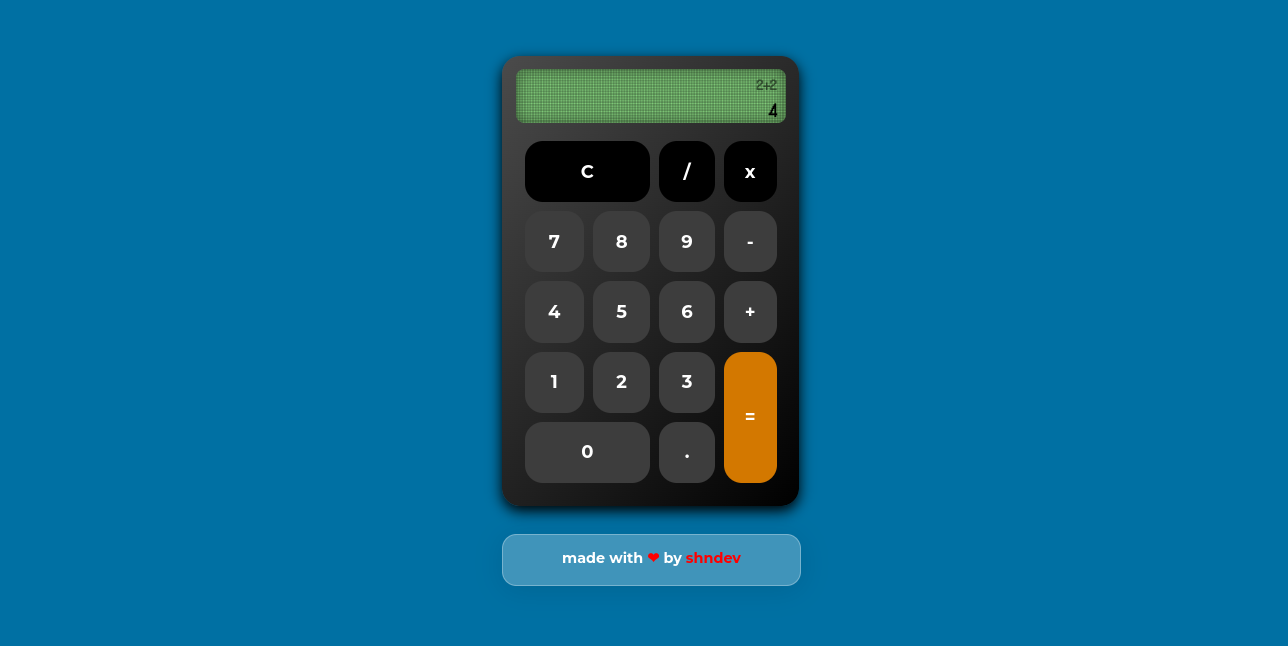
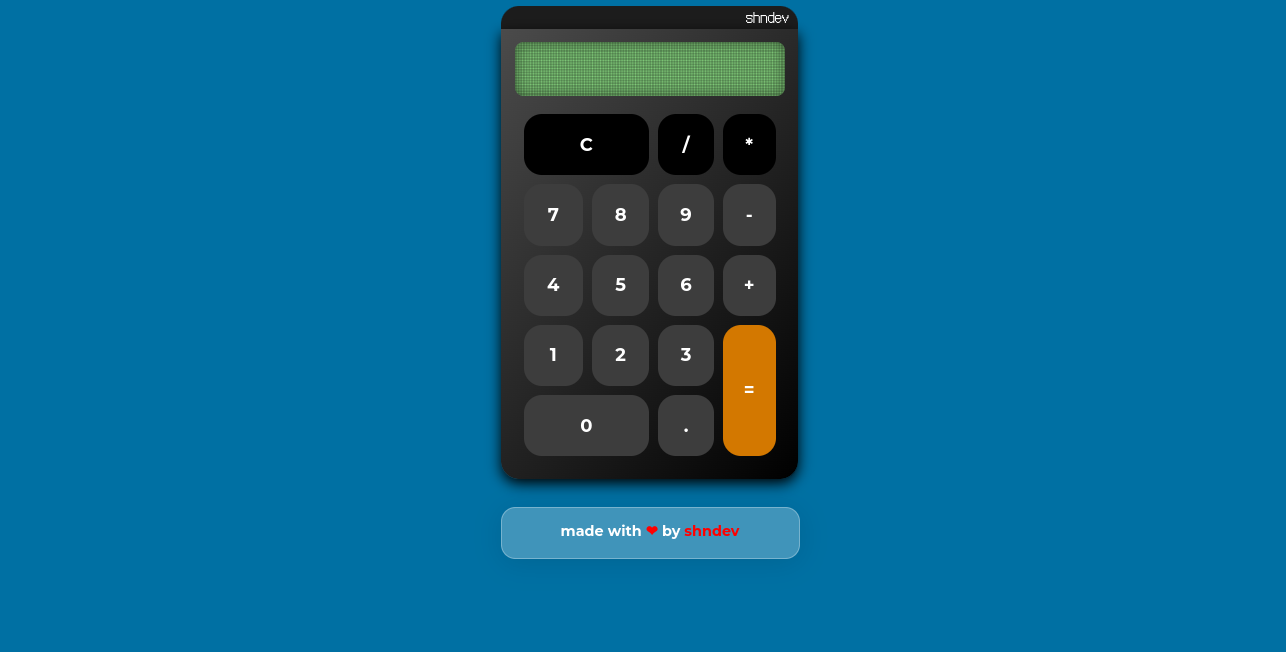
Add files via upload

Changed region(s): [[0.3733, 0.3715, 0.6532, 0.9288], [0.3733, 0.0, 0.6532, 0.3406], [0.4044, 0.4334, 0.4355, 0.4954]]

diff --git a/style.css b/style.css
@@ -17,6 +17,9 @@ body{
 
 *{
     transition: 0.2s ease;
+    -webkit-user-select: none; /* Safari */
+    -ms-user-select: none; /* IE 10 and IE 11 */
+    user-select: none; /* Standard syntax */
 }
 
 .all{
@@ -28,13 +31,24 @@ body{
 .calculator{
     width: 300px;
     height: 470px;
-    margin-top: 20%;
     background: rgb(0,0,0);
     background: linear-gradient(-50deg, rgba(0,0,0,1) 0%, rgba(75,75,75,1) 100%);
     color: white;
     padding: 15px;
-    border-radius: 20px;
+    border-radius: 0 0 20px 20px;
     box-shadow: rgba(0, 0, 0, 1) 0px 5px 15px;
+}
+
+.calculatortop{
+    background: #1c1c1c;
+    color: white;
+    font-family: "DotGothic16";
+    width: 320px;
+    height: 25px;
+    text-align: right;
+    border-radius: 20px 20px 0 0;
+    font-size: 16px;
+    padding-right: 10px;
 }
 
 .screen{
@@ -72,9 +86,7 @@ body{
     padding-right: 10px;
     font-weight: bold;
     font-size: 18px;
-    -webkit-user-select: none; /* Safari */
-    -ms-user-select: none; /* IE 10 and IE 11 */
-    user-select: none; /* Standard syntax */
+    
 }
 
 .screenoperation{
@@ -84,16 +96,12 @@ body{
     padding-right: 10px;
     font-weight: bold;
     font-size: 15px;
-    -webkit-user-select: none; /* Safari */
-    -ms-user-select: none; /* IE 10 and IE 11 */
-    user-select: none; /* Standard syntax */
+    
 }
 
 .keys{
     text-align: center;
-    -webkit-user-select: none; /* Safari */
-    -ms-user-select: none; /* IE 10 and IE 11 */
-    user-select: none; /* Standard syntax */
+    
 }
 
 .key{

diff --git a/script.js b/script.js
@@ -150,7 +150,7 @@ function key(key){
                 number2 = getSecondNumber('/',numbers)
                 op = parseInt(number1)/parseInt(number2);
                 document.getElementById("screenoutput").innerHTML = op;
-                document.getElementById("screenoperation").innerHTML = number1 + "+" + number2;
+                document.getElementById("screenoperation").innerHTML = number1 + "/" + number2;
 
             }
         }

diff --git a/index.html b/index.html
@@ -8,6 +8,7 @@
 </head>
 <body>
     <div class="all">
+        <div class="calculatortop">shndev</div>
         <div class="calculator">
             <div class="screen">
                 <div id="screenoperation" class="screenoperation"></div>
